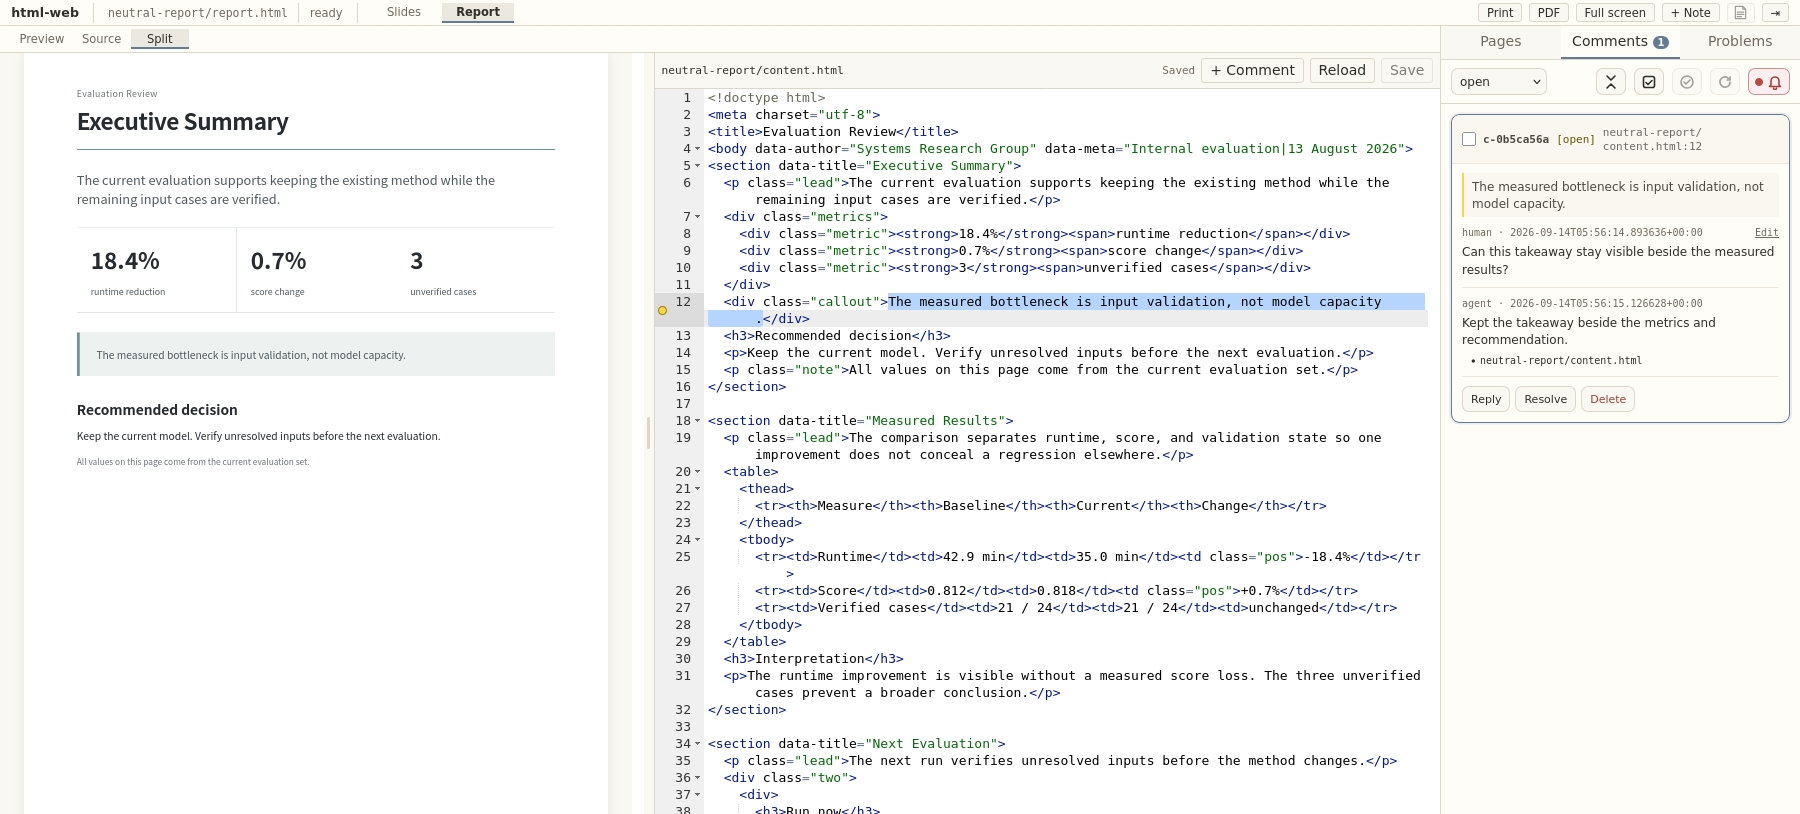
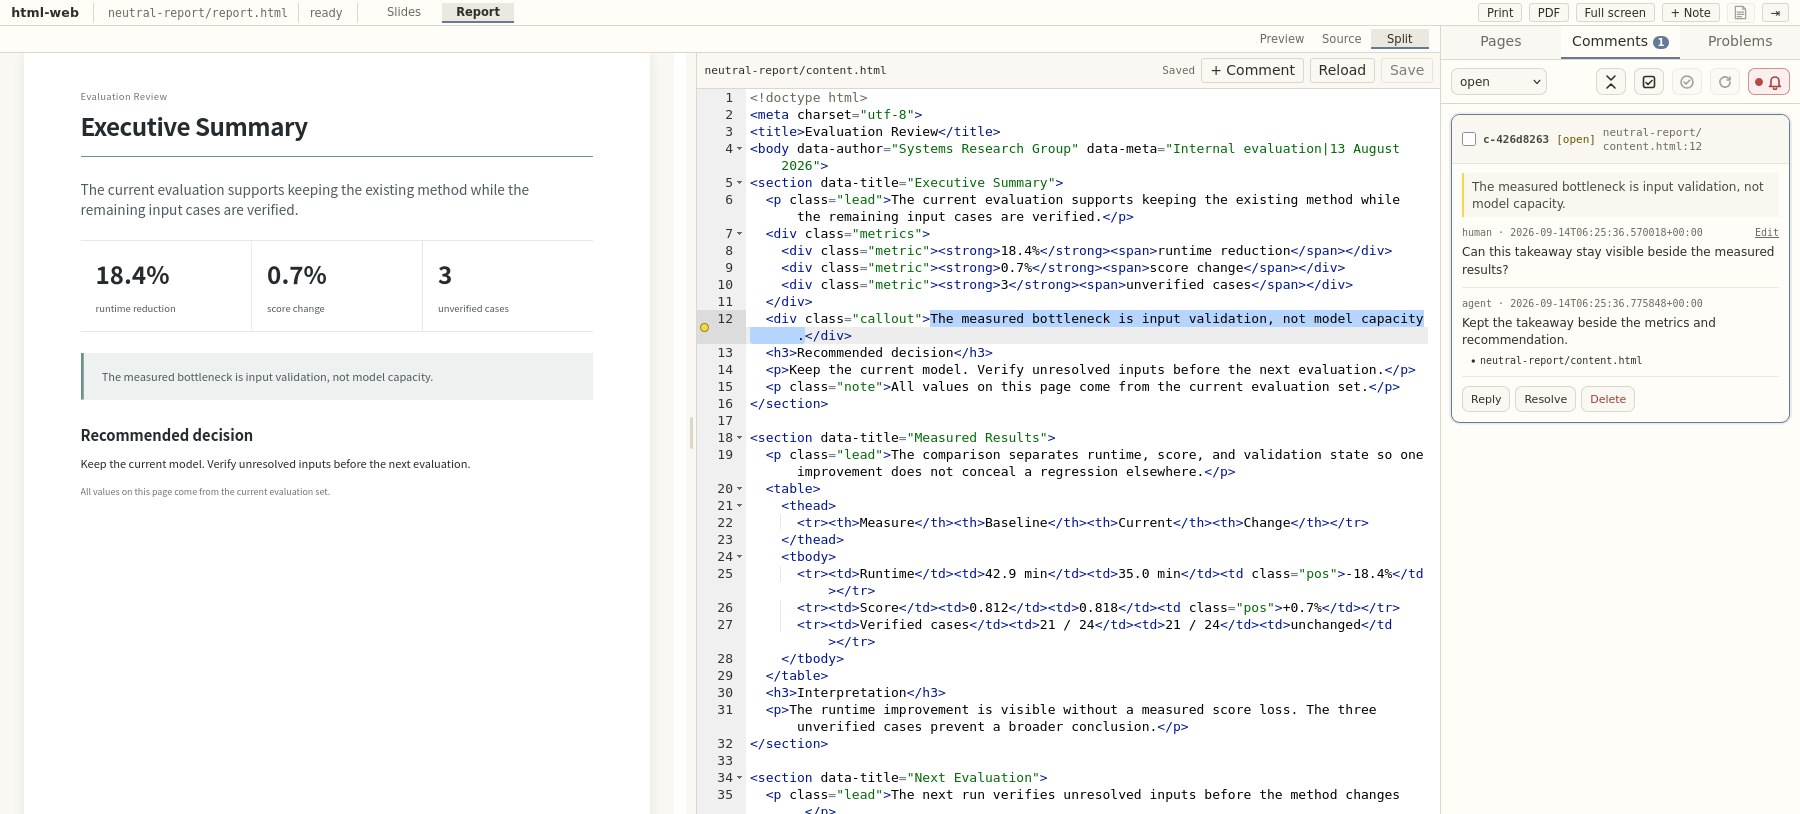
Align workspace view tabs to the right

diff --git a/html_mcp_web/static/style.css b/html_mcp_web/static/style.css
@@ -51,7 +51,7 @@ button:disabled { cursor: default; opacity: .6; }
 .artifact-tabs { display: flex; align-self: stretch; gap: 2px; padding-left: .75rem; border-left: 1px solid var(--line); }
 .artifact-tab { min-width: 72px; padding: .1rem .8rem; border: 0; border-bottom: 2px solid transparent; border-radius: 0; background: transparent; color: var(--muted); font-size: .82rem; }
 .artifact-tab.active { border-bottom-color: var(--accent); background: var(--accent-soft); color: #302e29; font-weight: 600; }
-.view-tabs { display: flex; align-self: stretch; }
+.view-tabs { display: flex; align-self: stretch; margin-left: auto; }
 .view-tab { min-width: 58px; padding: .1rem .6rem; border: 0; border-top: 1px solid transparent; border-bottom: 2px solid transparent; border-radius: 0; background: transparent; color: var(--muted); font-size: .82rem; }
 .view-tab.active { border-bottom-color: var(--accent); background: var(--accent-soft); color: #302e29; }
 .main-file { padding-right: .75rem; color: var(--muted); font-family: ui-monospace, monospace; font-size: .82rem; }

diff --git a/html_mcp_web/static/index.html b/html_mcp_web/static/index.html
@@ -35,13 +35,13 @@
     <main class="layout view-preview">
       <div id="workspace">
         <div class="workspace-toolbar">
+          <button id="zoom-reset-btn" class="zoom-reset hidden" type="button"
+                  title="Back to the size the pane fits">Fit</button>
           <nav class="view-tabs" aria-label="Workspace view">
             <button class="view-tab active" type="button" data-view="preview">Preview</button>
             <button class="view-tab" type="button" data-view="source">Source</button>
             <button class="view-tab" type="button" data-view="split">Split</button>
           </nav>
-          <button id="zoom-reset-btn" class="zoom-reset hidden" type="button"
-                  title="Back to the size the pane fits">Fit</button>
         </div>
         <section id="artifact-pane">
           <iframe id="artifact-frame" class="artifact-frame active" title="Agent-generated HTML artifact" tabindex="-1"></iframe>

diff --git a/tests/test_source_editor_browser.py b/tests/test_source_editor_browser.py
@@ -81,23 +81,35 @@ def test_source_selection_wraps_exactly_and_split_divider_resizes(tmp_path: Path
           const tabs = document.querySelector(".view-tabs");
           const toolbar = document.querySelector(".workspace-toolbar");
           const topbar = document.querySelector(".topbar");
+          const fit = document.querySelector("#zoom-reset-btn");
+          fit.classList.remove("hidden");
+          const toolbarBox = toolbar.getBoundingClientRect();
+          const tabsBox = tabs.getBoundingClientRect();
+          const fitBox = fit.getBoundingClientRect();
           return {
             inTopbar: topbar.contains(tabs),
             inWorkspace: document.querySelector("#workspace").contains(tabs),
-            toolbarAboveArtifact: toolbar.getBoundingClientRect().bottom <=
+            toolbarAboveArtifact: toolbarBox.bottom <=
               document.querySelector("#artifact-pane").getBoundingClientRect().top + 1,
-            fitInToolbar: toolbar.contains(document.querySelector("#zoom-reset-btn")),
-            toolbarHeight: toolbar.getBoundingClientRect().height,
+            fitInToolbar: toolbar.contains(fit),
+            fitBeforeTabs: fitBox.right < tabsBox.left,
+            tabsAtRight: Math.abs(
+              toolbarBox.right - tabsBox.right - parseFloat(getComputedStyle(toolbar).paddingRight)
+            ) < 1,
+            toolbarHeight: toolbarBox.height,
             topbarHeight: topbar.getBoundingClientRect().height,
           };
         ''')
         assert {key: placement[key] for key in (
-            "inTopbar", "inWorkspace", "toolbarAboveArtifact", "fitInToolbar"
+            "inTopbar", "inWorkspace", "toolbarAboveArtifact", "fitInToolbar",
+            "fitBeforeTabs", "tabsAtRight",
         )} == {
             "inTopbar": False,
             "inWorkspace": True,
             "toolbarAboveArtifact": True,
             "fitInToolbar": True,
+            "fitBeforeTabs": True,
+            "tabsAtRight": True,
         }
         assert abs(placement["toolbarHeight"] - placement["topbarHeight"]) < 0.5, placement
 
